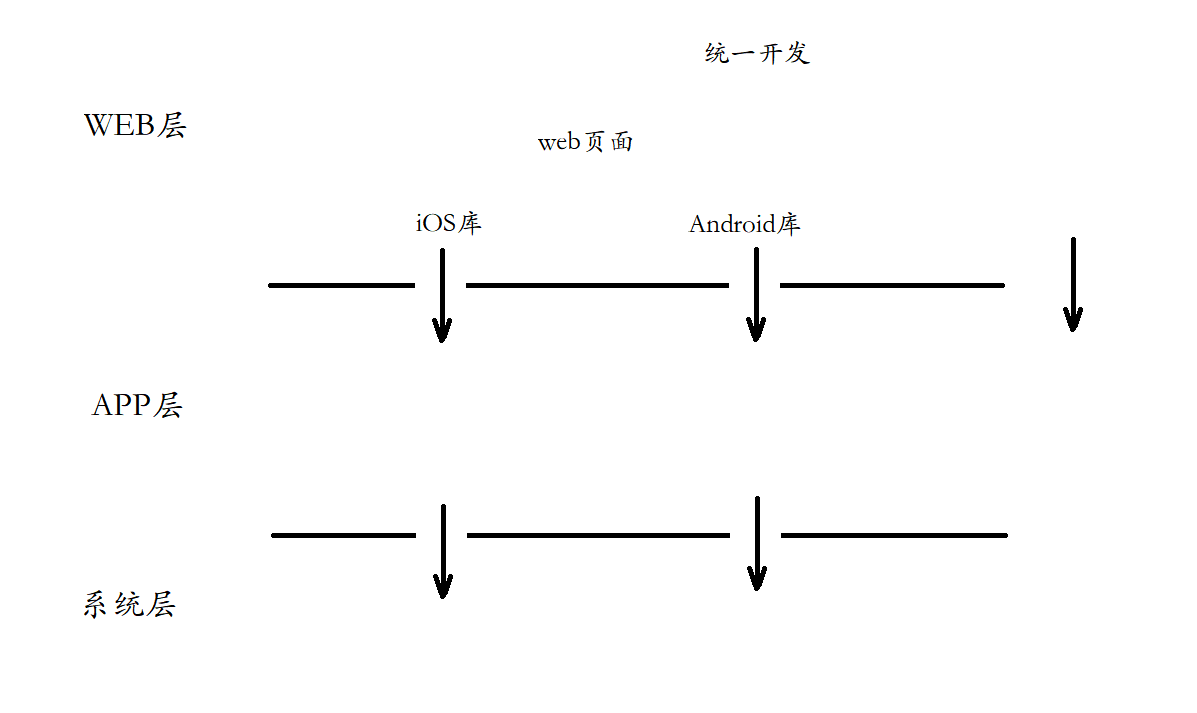
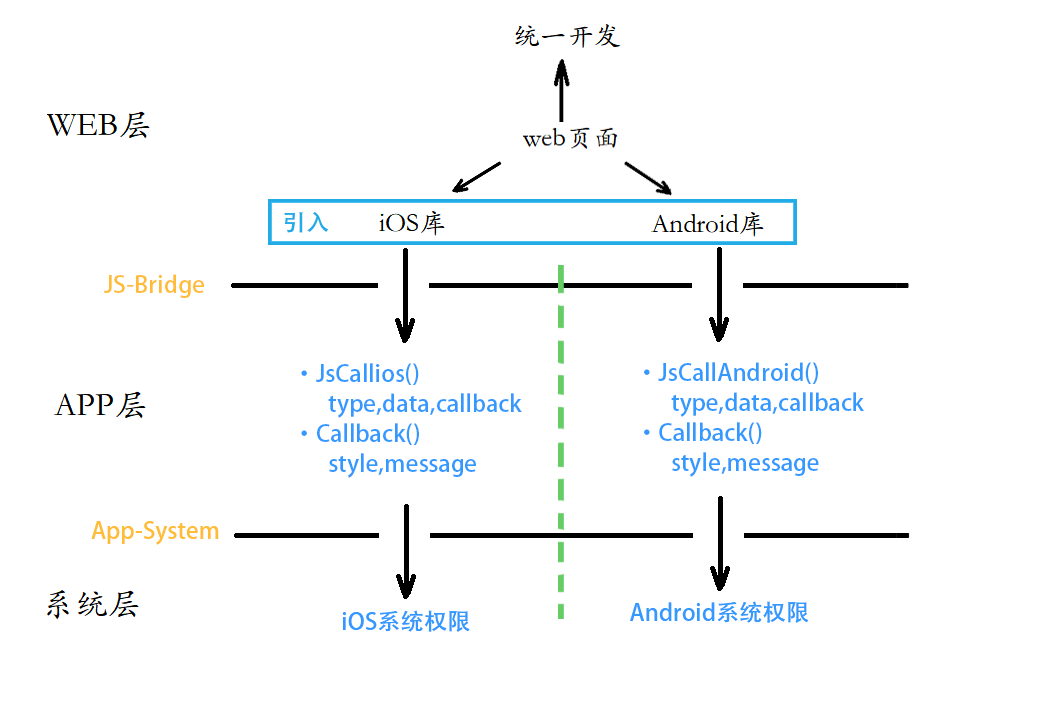
配置多文件打包

diff --git a/build/utils.js b/build/utils.js
@@ -120,10 +120,8 @@ exports.entries = function() {
     var entryFiles = glob.sync(PAGE_PATH + '/*/*.js')
     var map = {}
     entryFiles.forEach((filePath) => {
-        var filename = filePath.substring(filePath.lastIndexOf('\/') + 1, filePath.lastIndexOf('.'))
-        while(map[filename]!=undefined){
-            filename+='_'
-        }
+        var filename =filePath.split('\/')[filePath.split('\/').length-2]+
+        '_'+filePath.substring(filePath.lastIndexOf('\/') + 1, filePath.lastIndexOf('.'))
         map[filename] = filePath
     })
     return map
@@ -140,9 +138,9 @@ exports.htmlPlugin = function() {
         let entryFiles = glob.sync(PAGE_PATH + '/' + filename + '/*.js')
         let addJs = [];
         entryFiles.forEach((filePath) => {
-            var filename = filePath.substring(filePath.lastIndexOf('\/') + 1, filePath.lastIndexOf(
+            var name = filename+'_'+filePath.substring(filePath.lastIndexOf('\/') + 1, filePath.lastIndexOf(
                 '.'))
-            addJs.push(filename)
+            addJs.push(name)
         })
         let conf = {
             // 模板来源

diff --git a/config/index.js b/config/index.js
@@ -50,7 +50,7 @@ module.exports = {
     // Paths
     assetsRoot: path.resolve(__dirname, '../dist'),
     assetsSubDirectory: 'static',
-    assetsPublicPath: '/',
+    assetsPublicPath: '/H5-app',
 
     /**
      * Source Maps

diff --git a/src/pages/Android/index.js b/src/pages/Android/index.js
@@ -13,3 +13,5 @@ new Vue({
   components: { App },
   template: '<App/>'
 })
+
+console.log('Android')

diff --git a/src/pages/iOS/index.js b/src/pages/iOS/index.js
@@ -13,3 +13,4 @@ new Vue({
   components: { App },
   template: '<App/>'
 })
+console.log('ios')

diff --git a/README.md b/README.md
@@ -16,17 +16,17 @@
 
 ## 三、项目框架
 
+本项目以web页面为核心，通过引入不同操作系统的库，实现在不同操作系统下的统一开发。相关信息如下图所示。
 
-
-
+![](system_pic/系统架构.png)
 
 ## 四、开发规范
 
 ### 1.项目规划
 
-通过原型测试，发现目前移动端两大操作系统Android 和iOS，关于H5-Native通信之间存在一些差别。所以本次项目开发基于webpack的vue多页应用，即Android一套页面，iOS一套页面，通过对Android 和  iOS 的 js-bridge封装，实现对外暴露统一的应用开发接口。在开发中，只需要引入不同 js-bridge模块，即可实现统一的开发。
+通过原型测试，发现目前移动端两大操作系统Android 和iOS，关于H5-Native通信之间存在一些差别。所以本次项目开发基于webpack的vue多页应用，即Android一套页面，iOS一套页面，通过对Android 和  iOS 的 js-bridge封装，实现对外暴露统一的应用开发接口。在未来开发中，只需要引入不同 js-bridge模块，即可实现统一的开发。
 
-后期可以使用webview客户端检测，再次封装。使用按需加载，再次统一接口。
+后期可以使用webview客户端检测，再次封装。自动检测操作系统按需加载，再次统一接口，真正实现一套代码，两端同时发布。
 
 ### <span id="ml">2.项目目录</span>
 
@@ -44,12 +44,12 @@
 			├── Android_module #js-bridge模块文件夹
 			├── Android.html #Android端页面
 			├── index.js #webpack打包js文件1
-			├── Android.js #webpack打包js文件2（便于后期生成单独js）
+			├── Android.js #webpack打包js文件2（便于后期生成CDN）
 		├── iOS
 			├── iOS_module #js-bridge模块文件夹
 			├── iOS.html #iOS端页面
 			├── index.js #webpack打包js文件1
-			├── iOS.js #webpack打包js文件2（便于后期生成单独js）
+			├── iOS.js #webpack打包js文件2（便于后期生成CDN）
 		 #由于两套页面内容完全相同，共用router、App.vue
 		├── router 
 		├── App.vue
@@ -64,6 +64,10 @@
 - master：主分支，保证主分支内容随时可用
 - dev：开发分支，日常开发分支
 - fix：紧急修复分支，当主分支内容出现紧急问题时，使用fix分支进行修复
+
+### 4.js-bridge接口定义
+
+
 
 ## 五、开发记录
 
@@ -113,7 +117,7 @@ npm run build --report
      - github：
      - 运行：在github下载代码，使用Xcode真机调试
 - Android
-     - github
+     - github：
      - apk：
 
 ## 七、问题记录
@@ -237,3 +241,25 @@ npm run build --report
 5. 修改文件目录
 
      详情请参考，<a href='#ml'>本项目目录</a>
+
+### 2.打包中vendor.js较大
+
+在使用npm run build时，webpack会把页面依赖的第三方库进行打包进入vendor文件。而第三方库体积相对较大，如果将它配置在自己的服务器上这样进行访问，会非常慢，影响用户体验。
+
+可以在webpack中配置禁止打包一些主要的第三方库，通过CDN引入进网页。采用cdn加速去从别的服务器上加载第三方库而非自己的服务器，这样就会快很多，并且能节省自己服务器的带宽。
+
+```json
+externals:{
+	'Vue':'Vue'
+	...
+}
+```
+
+### 3.webpack文件重名打包问题
+
+由于本次配置webpack是多页应用，在pages文件夹下面有若干文件，当出现文件路径不同但文件重名的现象时，就会导致打包出现覆盖的现象。这里记录一下这个问题的解决方案。
+
+1. 在webpack的入口文件，entry中接收的是一个对象，属性名将会成为打包的模块名，属性值是打包入口文件的路径。这里的模块名很重要，会影响后面的HtmlWebpackPlugin
+2. HtmlWebpackPlugin中的chunks接收一个数组，数组中是需要注入html的模块名
+3. 在解决打包问题时，将文件模块名改为多层结构即可。如Android/index —> Android_index，而不是index
+
